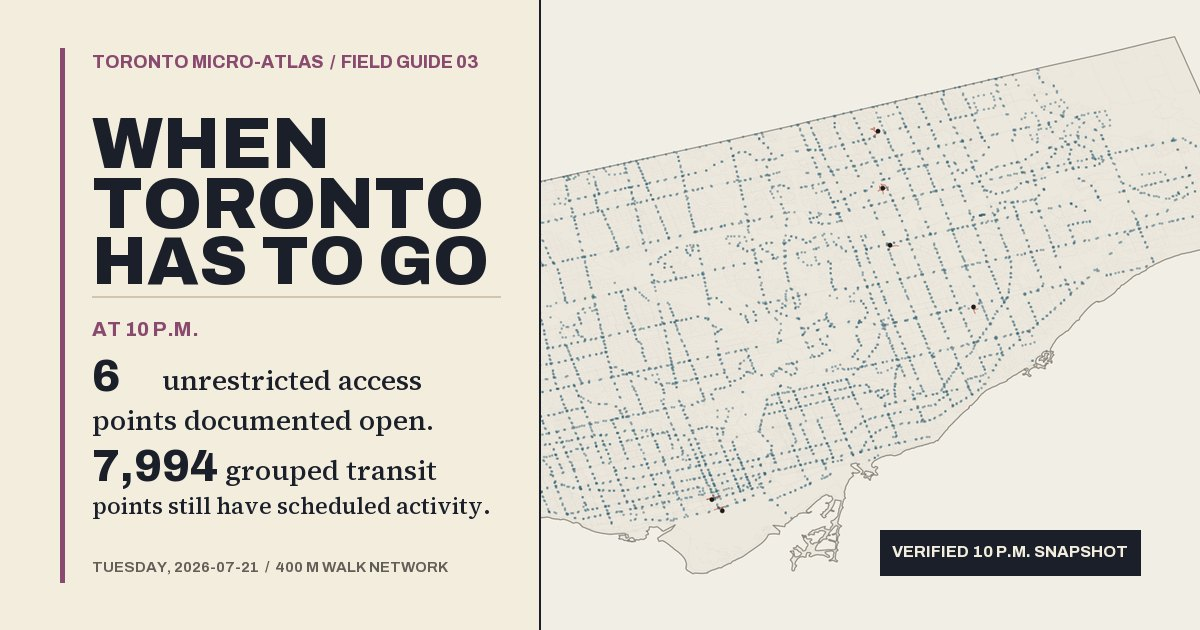
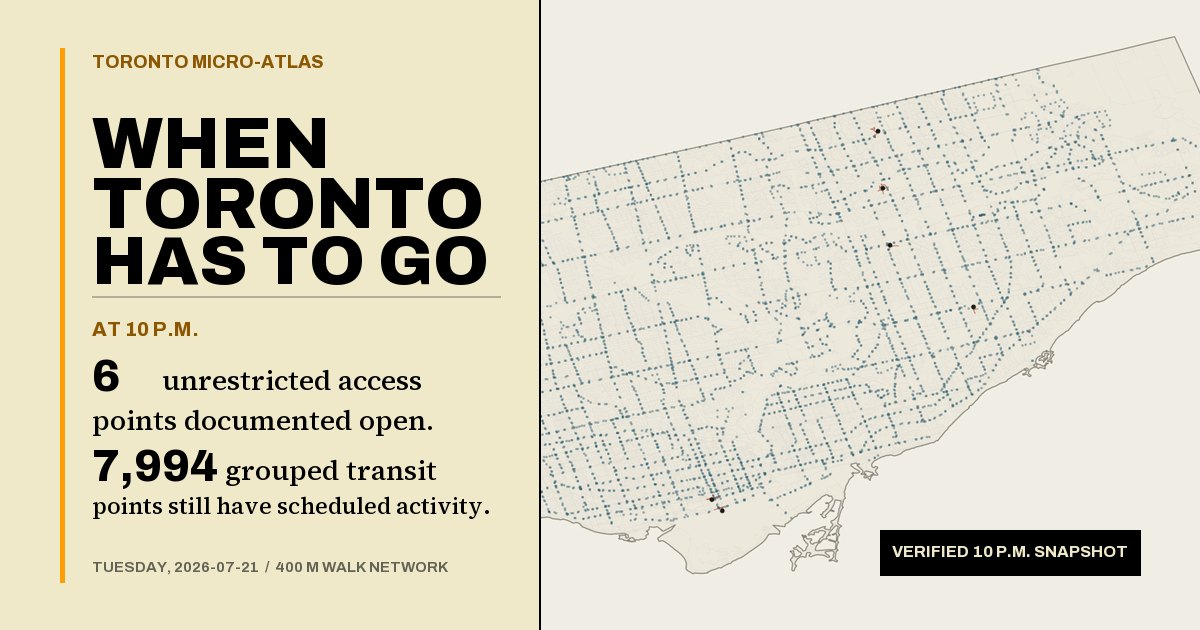
design: recolour the When Toronto Has to Go social card
Cream, Black and Orange around the map panel. The panel is the proof
render and keeps the colours it was recorded in.

The kicker drops "FIELD GUIDE 03": series numbering is retired from
public copy, and the card was still carrying it.

Changed region(s): [[0.0308, 0.0603, 0.4317, 0.9349], [0.7092, 0.8143, 0.9558, 0.9349], [0.4317, 0.4524, 0.4625, 0.5127]]

diff --git a/scripts/build-fg03-social.py b/scripts/build-fg03-social.py
@@ -1,5 +1,5 @@
 #!/usr/bin/env python3
-"""Build the reproducible 1200 by 630 social card for Field Guide 03."""
+"""Build the reproducible 1200 by 630 social card for When Toronto Has to Go."""
 
 from __future__ import annotations
 
@@ -18,11 +18,14 @@ OUTPUT = ROOT / "public" / "social" / "og-when-toronto-has-to-go.jpg"
 
 WIDTH = 1200
 HEIGHT = 630
-PAPER = "#F3EDDD"
-INK = "#1A1F2A"
-MUTED = "#625E58"
-MAUVE = "#8A4A70"
-RULE = "#CFC5B0"
+# ONE PALETTE V2.0. The map panel is the proof render and keeps the colours
+# it was recorded in; only the card around it is restyled here.
+PAPER = "#EFE9C9"    # Cream
+INK = "#000000"      # Black
+MUTED = "#646254"    # Black 58 / Cream 42: 5.02 on Cream
+ACCENT = "#FF9D03"   # Orange, the guide's alarm colour: rules and fills only
+ACCENT_TEXT = "#8C5602"  # Orange 55 / Black 45: 4.98 on Cream
+RULE = "#B3AF97"     # Black 25 / Cream 75
 
 ARCHIVO = (
     ROOT
@@ -115,13 +118,13 @@ def build() -> bytes:
 
     draw.rectangle((0, 0, 540, HEIGHT), fill=PAPER)
     draw.line((539, 0, 539, HEIGHT), fill=INK, width=2)
-    draw.rectangle((60, 48, 64, 582), fill=MAUVE)
+    draw.rectangle((60, 48, 64, 582), fill=ACCENT)
 
     label_font = _font(ARCHIVO, 18, 760)
     draw.text(
         (92, 52),
-        "TORONTO MICRO-ATLAS  /  FIELD GUIDE 03",
-        fill=MAUVE,
+        "TORONTO MICRO-ATLAS",
+        fill=ACCENT_TEXT,
         font=label_font,
         spacing=0,
     )
@@ -146,7 +149,7 @@ def build() -> bytes:
 
     time_font = _font(ARCHIVO, 20, 760)
     number_font = _font(ARCHIVO, 44, 820)
-    draw.text((92, 318), "AT 10 P.M.", fill=MAUVE, font=time_font)
+    draw.text((92, 318), "AT 10 P.M.", fill=ACCENT_TEXT, font=time_font)
     draw.text((92, 352), f"{unrestricted:,}", fill=INK, font=number_font)
     draw.text(
         (162, 360),
